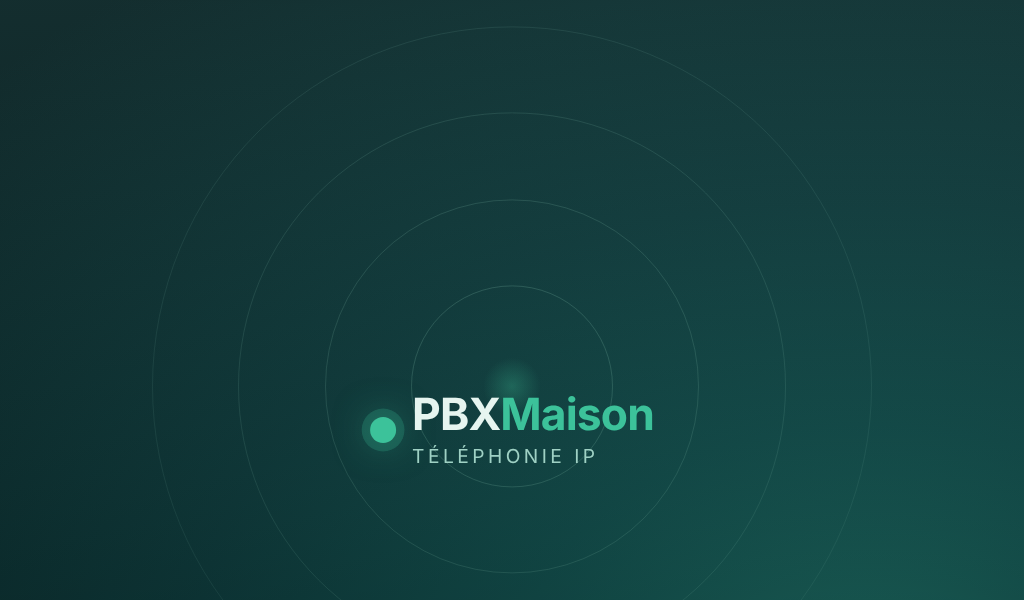
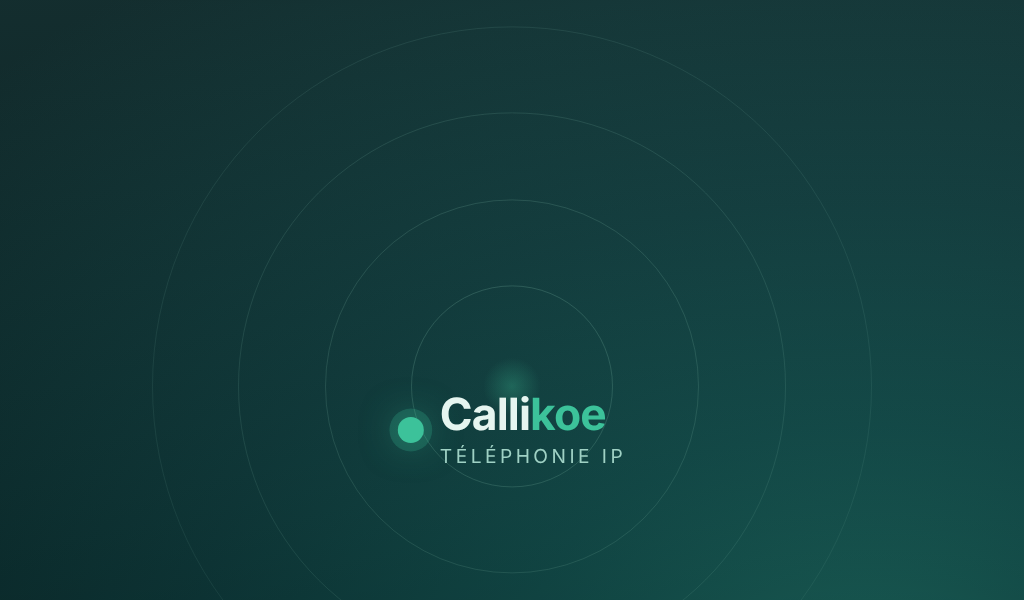
Nom du produit : Callikoe (console, installeur, fond d'écran des téléphones)
Claude-Session: https://claude.ai/code/session_01Xf5GZBPGMbS2fGntRbqSWF

Changed region(s): [[0.3438, 0.66, 0.6562, 0.78]]

diff --git a/console/public/app.js b/console/public/app.js
@@ -799,7 +799,7 @@ async function wireAppQr(u) {
   const box = $("#appqr"); if (!box) return;
   const idle = (st) => {
     box.innerHTML = `<h3 class="sec" style="margin:0 0 8px">Application mobile</h3>
-      <p class="hint" style="margin:0 0 12px">Un QR code à scanner dans l'application PBXMaison pour configurer le poste ${esc(u.id)} sans rien saisir. Valable 2 jours.</p>
+      <p class="hint" style="margin:0 0 12px">Un QR code à scanner dans l'application Callikoe pour configurer le poste ${esc(u.id)} sans rien saisir. Valable 2 jours.</p>
       ${st ? `<p style="margin:0 0 12px">Un QR code est actif jusqu'au <strong>${esc(fmtDateTime(st.expires_at))}</strong>${st.used_at ? ` · scanné le ${esc(fmtDateTime(st.used_at))}` : " · pas encore scanné"}.</p>` : ""}
       <div class="row"><button type="button" class="btn ghost sm" id="qrgen">${st ? "Générer un nouveau QR code" : "Générer le QR code"}</button>
       ${st ? '<button type="button" class="btn ghost sm" id="qrrev">Révoquer</button>' : ""}</div>`;
@@ -809,7 +809,7 @@ async function wireAppQr(u) {
   const show = (t) => {
     box.innerHTML = `<h3 class="sec" style="margin:0 0 8px">Application mobile</h3>
       <div class="qr"><div class="qrimg">${t.qr_svg}</div><div>
-        <p style="margin-top:0">Scanne ce QR code avec l'application PBXMaison.<br>Valable jusqu'au <strong>${esc(fmtDateTime(t.expires_at))}</strong>.</p>
+        <p style="margin-top:0">Scanne ce QR code avec l'application Callikoe.<br>Valable jusqu'au <strong>${esc(fmtDateTime(t.expires_at))}</strong>.</p>
         <p class="hint">Il donne accès aux identifiants du poste ${esc(u.id)} : ne l'envoie qu'à son utilisateur. Un nouveau QR code annule le précédent.</p>
         <div class="row"><button type="button" class="btn ghost sm" id="qrrev">Révoquer</button><button type="button" class="btn ghost sm" id="qrprint">Imprimer</button></div></div></div>`;
     $("#qrrev").onclick = async () => { await api("DELETE", `/api/extensions/${u.id}/app-token`); idle(null); };

diff --git a/console/public/index.html b/console/public/index.html
@@ -9,12 +9,12 @@
 </head>
 <body>
 <header><div class="in">
-  <a class="logo" href="#/"><i></i><span id="pbx-name">Console PBX</span></a>
+  <a class="logo" href="#/"><i></i><span id="pbx-name">Console PBX</span><small>Callikoe</small></a>
   <nav id="nav"></nav>
   <div class="user" id="user"></div>
 </div></header>
 <main id="app"><div class="empty"><span class="spin"></span></div></main>
-<footer>PBXMaison</footer>
+<footer>Callikoe · téléphonie IP</footer>
 <script type="module" src="/app.js"></script>
 </body>
 </html>
